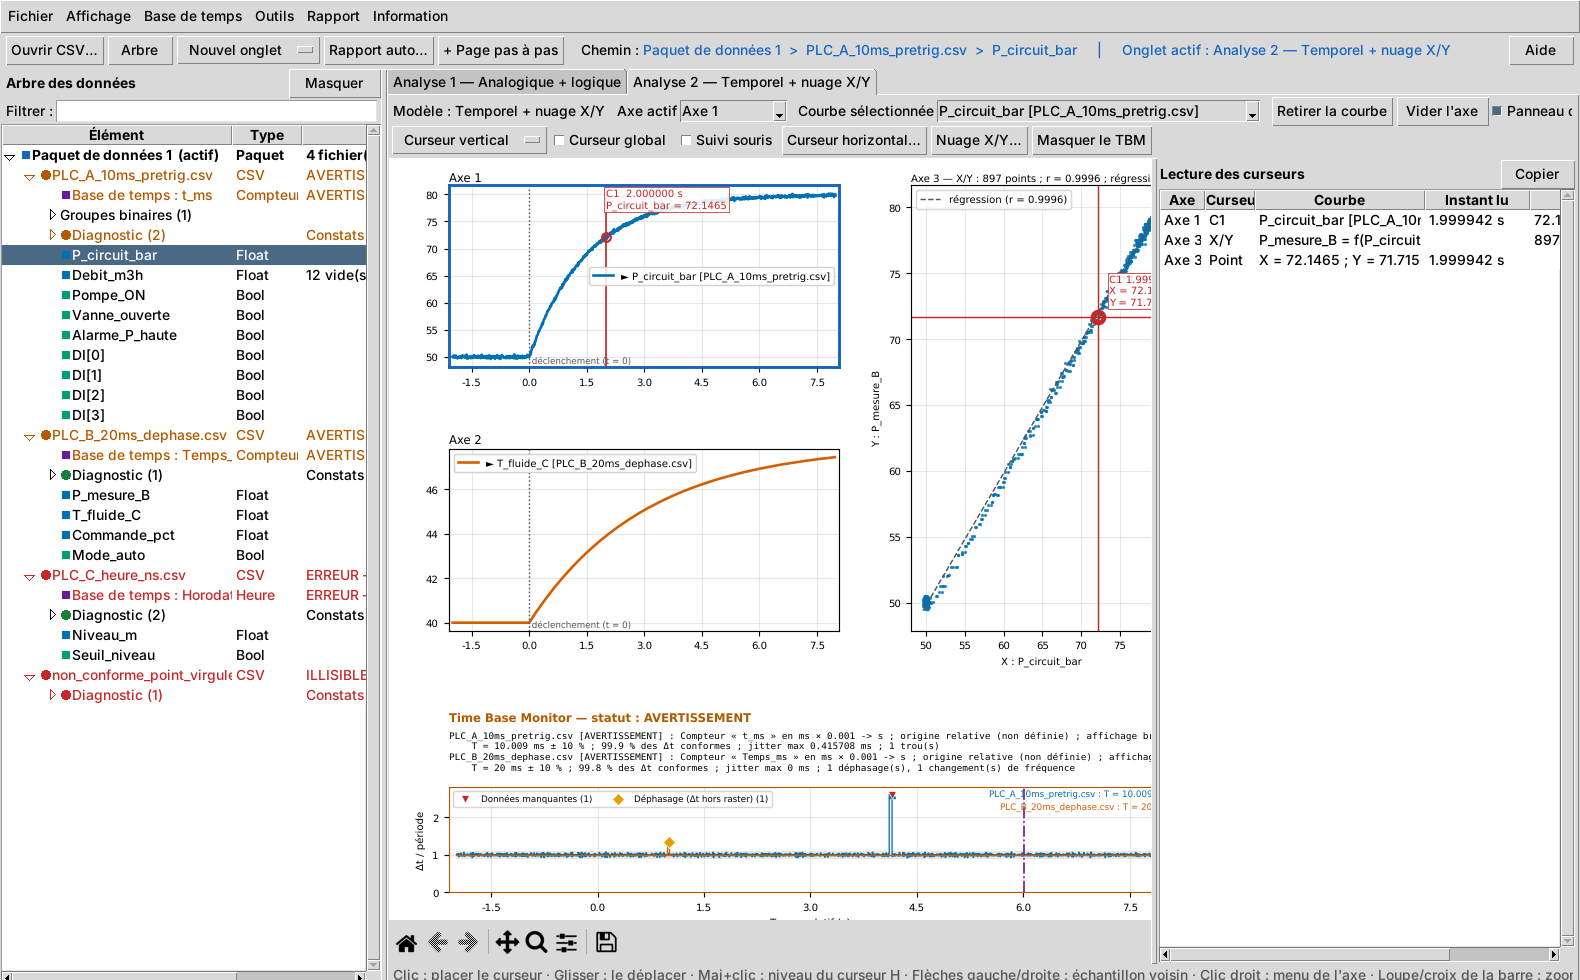
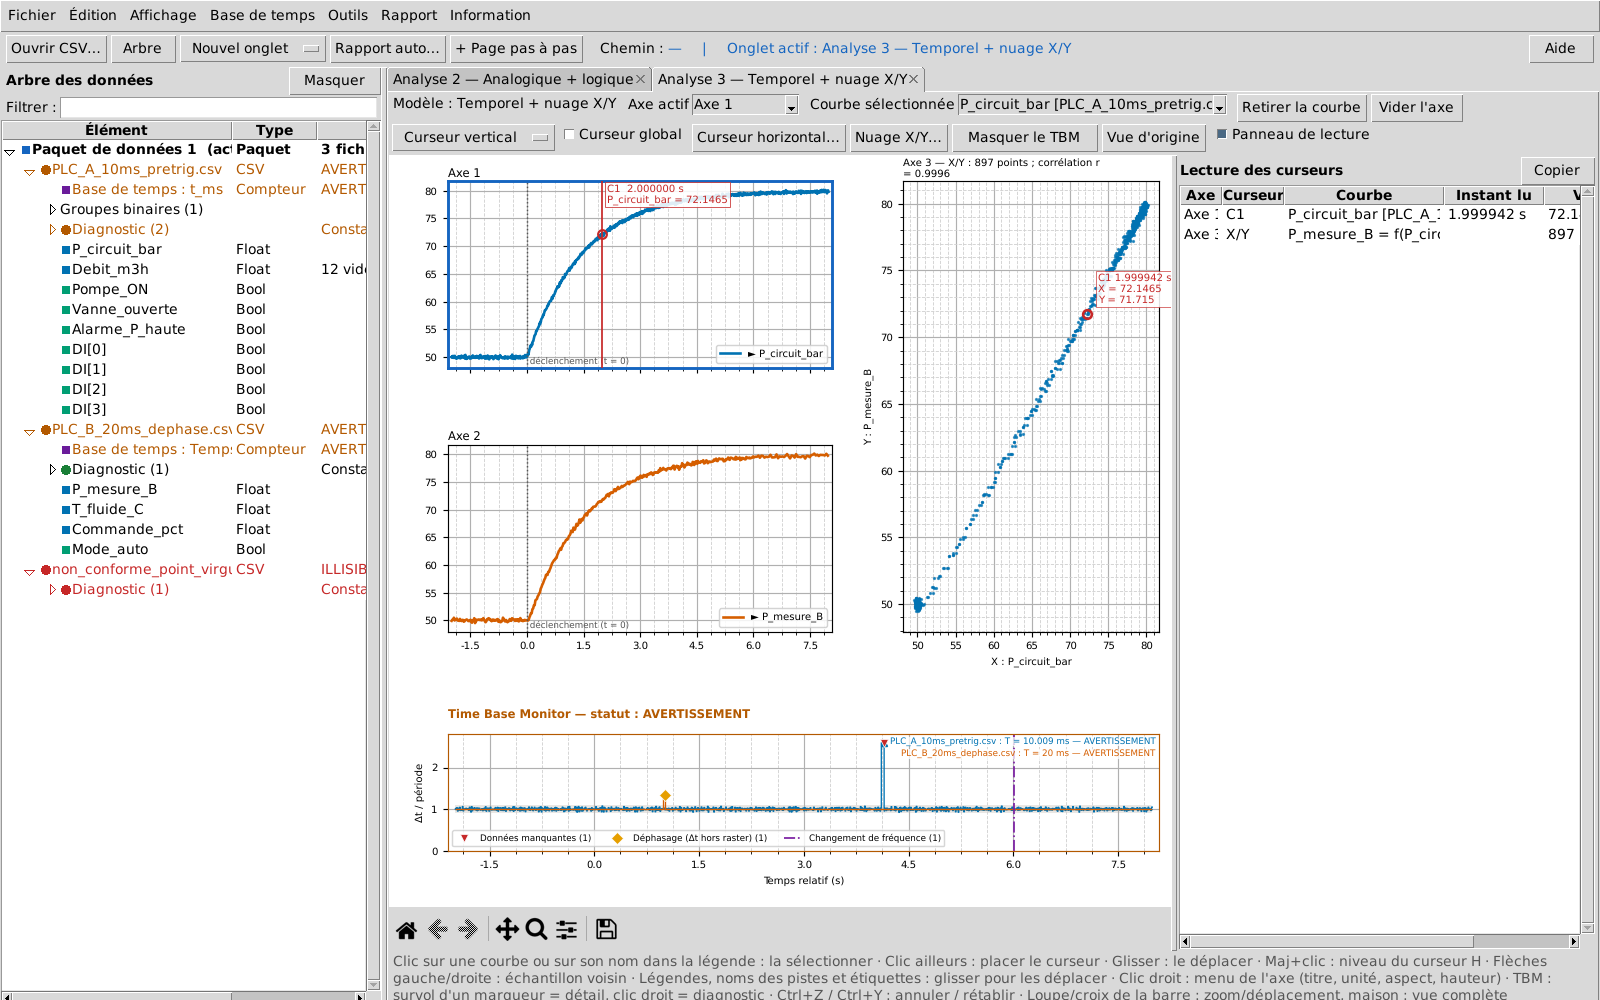
Plus de référence à la spécification ; captures de l'interface 1.1.0
- README, matrice, récapitulatifs : la référence du document de spécification
  est retirée (on parle de « la spécification »).
- Captures de la documentation refaites avec l'interface 1.1.0.
- Time Base Monitor : légende des anomalies en bas à gauche, pour ne plus
  chevaucher le statut des fichiers écrit en haut à droite.

Claude-Session: https://claude.ai/code/session_01Xr679nCBrcWe6H8towhecz

Changed region(s): [[0.0, 0.0, 1.0, 1.0], [0.2791, 0.4286, 0.5272, 0.6735], [0.1551, 0.6429, 0.1861, 0.6735]]

diff --git a/ptbg/plotting/monitor.py b/ptbg/plotting/monitor.py
@@ -156,7 +156,8 @@ def draw_monitor(text_ax, plot_ax, sources: list[SourceFile], timeline: Timeline
         plot_ax.legend(handles=handles, loc="upper left", bbox_to_anchor=(1.01, 1.0), borderaxespad=0.0,
                        fontsize=FONT_SMALL - 1, frameon=False)
     elif handles:
-        plot_ax.legend(handles=handles, loc="upper left", fontsize=FONT_SMALL - 1, framealpha=0.8,
+        # En bas à gauche : le haut à droite porte le statut de chaque fichier.
+        plot_ax.legend(handles=handles, loc="lower left", fontsize=FONT_SMALL - 1, framealpha=0.8,
                        ncol=len(handles))
     plot_ax.set_ylim(0, top * 1.08)
     return lines, markers

diff --git a/ptbg/core/conditional.py b/ptbg/core/conditional.py
@@ -7,7 +7,7 @@ termes « signal Bool = état attendu » par ET ou OU. Elle sert :
 - au curseur horizontal : seuls les franchissements survenant pendant que la
   condition est vraie sont retenus ;
 - au traitement conditionnel (section 4.5, REQ_COMMON_KH_5500 dont l'énoncé
-  est VIDE dans la Rev. A) : statistiques des signaux analogiques pendant les
+  est VIDE dans la spécification) : statistiques des signaux analogiques pendant les
   périodes où la condition est vraie. Ce comportement est une proposition à
   valider (onglet « Points ouverts » du récapitulatif Excel), construite uniquement sur 5407.
 

diff --git a/docs/TRACABILITE_REQUIS.md b/docs/TRACABILITE_REQUIS.md
@@ -2,7 +2,7 @@
 
 | | |
 |---|---|
-| Document de référence | **NCS/00/I/COMMON----/ES/010 Rev. A** (13/10/2026) |
+| Document de référence | spécification des besoins de VISU PTBG |
 | Contenu de la spécification | **64 lignes** de requis pour **63 identifiants** (REQ_COMMON_KH_2201 apparaît deux fois : « Analog signal type : float » et « Binary group signal ») |
 | Contrôle automatique | `python tools/verifier_tracabilite.py` (et `tests/test_architecture.py`) relit les identifiants **dans la spécification** et vérifie que chacun est cité ici, dans le code et dans au moins un test |
 | Version tableur | `docs/recapitulatif/Recapitulatif_requis_VISU_PTBG.xlsx`, avec l'onglet « Points ouverts » (questions à faire valider par le rédacteur de la spécification) |
@@ -13,7 +13,7 @@
 |---|---|---|
 | **Implémenté et testé** | fonction présente et vérifiée par un test automatique | 45 |
 | **Implémenté — interprétation à valider** | réalisé selon une interprétation ou une valeur par défaut ; la question correspondante est dans l'onglet « Points ouverts » de l'Excel | 16 |
-| **Proposition — énoncé vide** | l'énoncé de la Rev. A est vide ; une fonction est proposée, le requis ne peut pas être déclaré satisfait avant d'être rédigé | 1 |
+| **Proposition — énoncé vide** | l'énoncé de la spécification est vide ; une fonction est proposée, le requis ne peut pas être déclaré satisfait avant d'être rédigé | 1 |
 | **Implémenté — qualification … à faire** | réalisé et couvert par les tests automatiques (données de test) ; l'essai sur les postes cibles (poste Windows, VM Linux SLES 15 SP7 fournie par l'entreprise) ou sur les volumes réels reste à faire (dernière section) | 2 |
 | **Total** | | **64** |
 
@@ -136,7 +136,7 @@ Qualification restant à faire.
 
 | Requis | Énoncé | Réalisation | Code | Test | Statut |
 |---|---|---|---|---|---|
-| REQ_COMMON_KH_5500 | *(énoncé vide dans la Rev. A)* | Proposition : statistiques (durée, min, max, moyenne, écart-type, durée au-dessus d'un seuil) des signaux analogiques pendant qu'une condition Bool est vraie ; export CSV | `core/conditional.py`, `gui/dialogs/analysis_dialogs.py` | `test_analysis_tools.test_conditional_statistics` | Proposition — énoncé vide à rédiger |
+| REQ_COMMON_KH_5500 | *(énoncé vide dans la spécification)* | Proposition : statistiques (durée, min, max, moyenne, écart-type, durée au-dessus d'un seuil) des signaux analogiques pendant qu'une condition Bool est vraie ; export CSV | `core/conditional.py`, `gui/dialogs/analysis_dialogs.py` | `test_analysis_tools.test_conditional_statistics` | Proposition — énoncé vide à rédiger |
 
 ## 5 Sortie (rapport)
 

diff --git a/CHANGELOG.md b/CHANGELOG.md
@@ -28,7 +28,7 @@ Remarques issues des premiers essais (package simulation10 : 3 producteurs,
 | Curseurs | mode « suivi souris » retiré ; le panneau de lecture se met à jour en glissant le curseur | demande du relecteur |
 | Nuage X/Y | droite de régression retirée (corrélation r conservée) | remarque « virer la courbe de régression » |
 | Interface | plus aucun numéro de requis ni référence du document de spécification affichés dans les fenêtres, messages, diagnostics et rapports (ils restent dans le code et la traçabilité) | lisibilité |
-| Time Base Monitor | à l'écran, plus de texte sous le titre : statut par fichier au coin de la courbe, détail d'une anomalie au survol, diagnostic au clic droit ; le rapport garde le texte détaillé | remarque « ne pas afficher les avertissements sous le titre » |
+| Time Base Monitor | à l’écran, plus de texte sous le titre : statut par fichier au coin de la courbe, légende des anomalies en bas, détail d’une anomalie au survol, diagnostic au clic droit ; le rapport garde le texte détaillé | remarque « ne pas afficher les avertissements sous le titre » |
 
 Deux nouveaux points ouverts (n° 19 et 20) portent sur le détail du TBM à l'écran et sur
 l'énoncé du requis « tracking reading mode », à mettre à jour après le retrait du suivi souris.

diff --git a/README.md b/README.md
@@ -1,8 +1,7 @@
 # VISU PTBG 1.1.0 — analyseur graphique de perturbographie
 
 Outil Python d'analyse des fichiers CSV de **perturbographie (PTBG)** produits par les PLC
-Framatome TXS Compact (projet NPI-NCS), conforme à la spécification
-**NCS/00/I/COMMON----/ES/010 Rev. A**.
+Framatome TXS Compact (projet NPI-NCS), conforme à sa spécification des besoins.
 
 Il lit un ou plusieurs CSV (un par PLC), **contrôle la base de temps** de chacun
 (période, stabilité, croissance continue, trous, déphasage, changements de fréquence),
@@ -69,7 +68,7 @@ Les 64 lignes de la spécification sont tracées dans
 |---|---|
 | Implémenté et testé | 45 |
 | Implémenté selon une interprétation à valider (questions dans l'Excel, onglet « Points ouverts ») | 16 |
-| Proposition (énoncé vide dans la Rev. A) | 1 |
+| Proposition (énoncé vide dans la spécification) | 1 |
 | Implémenté, qualification sur cible ou sur volumes réels à faire | 2 |
 | **Total** | **64** |
 
